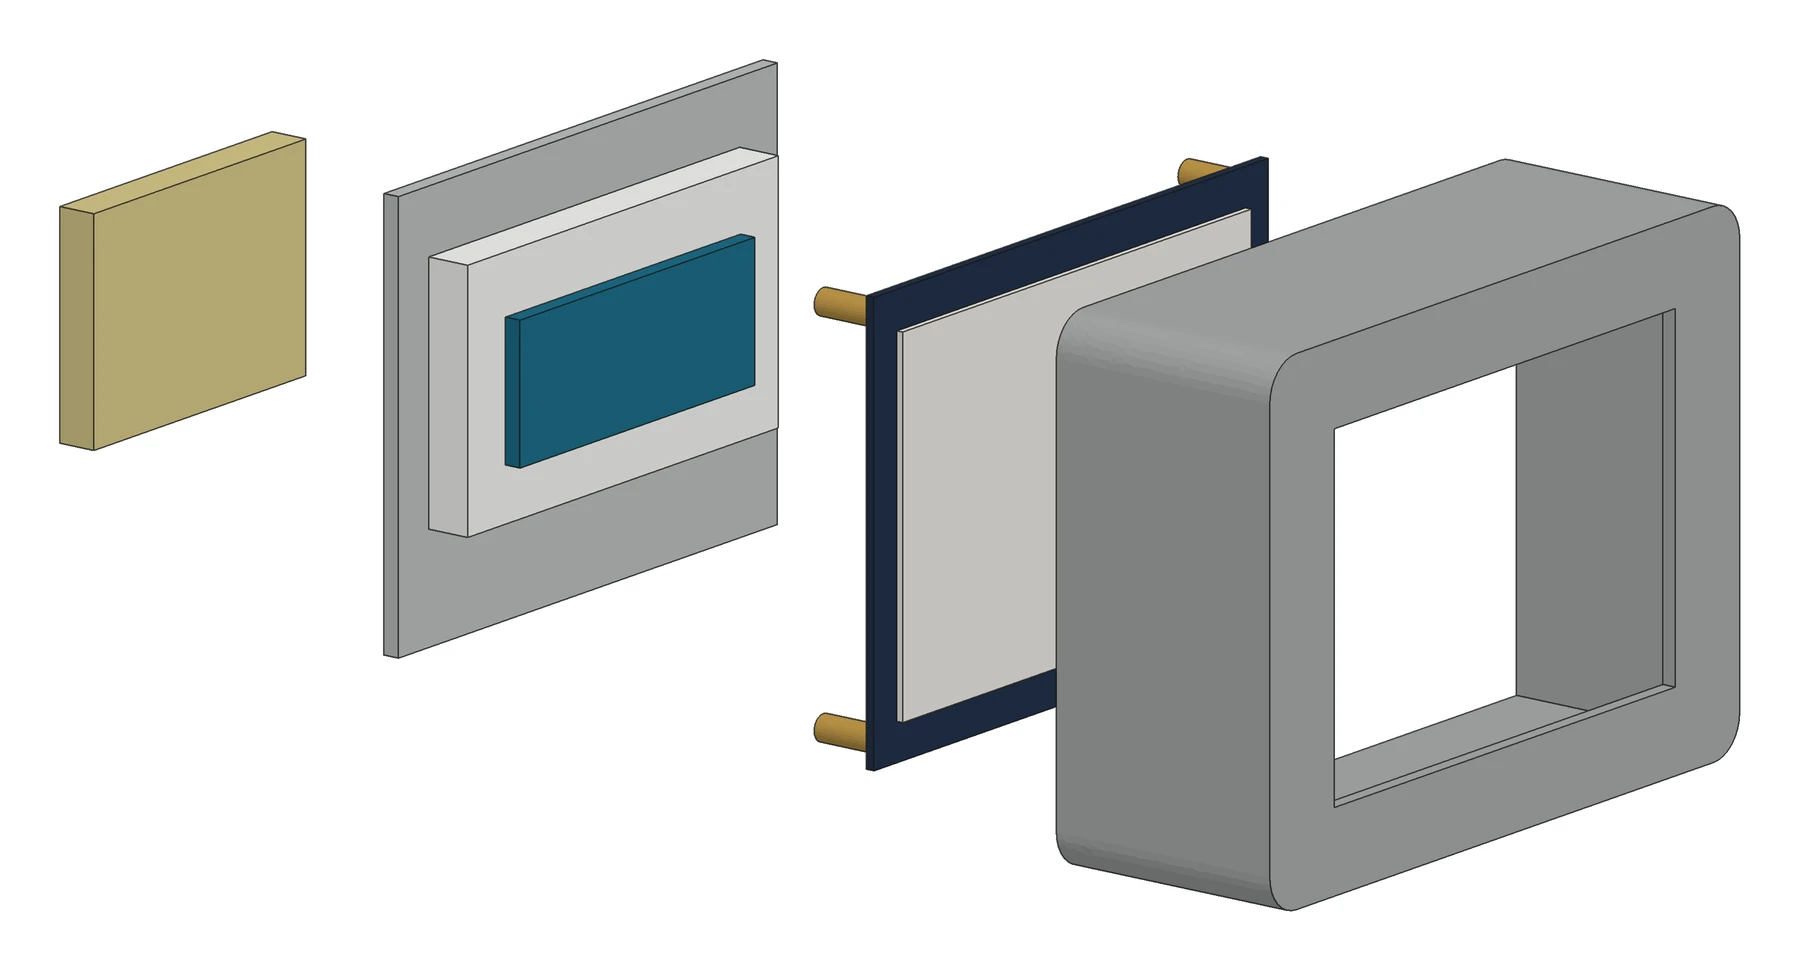
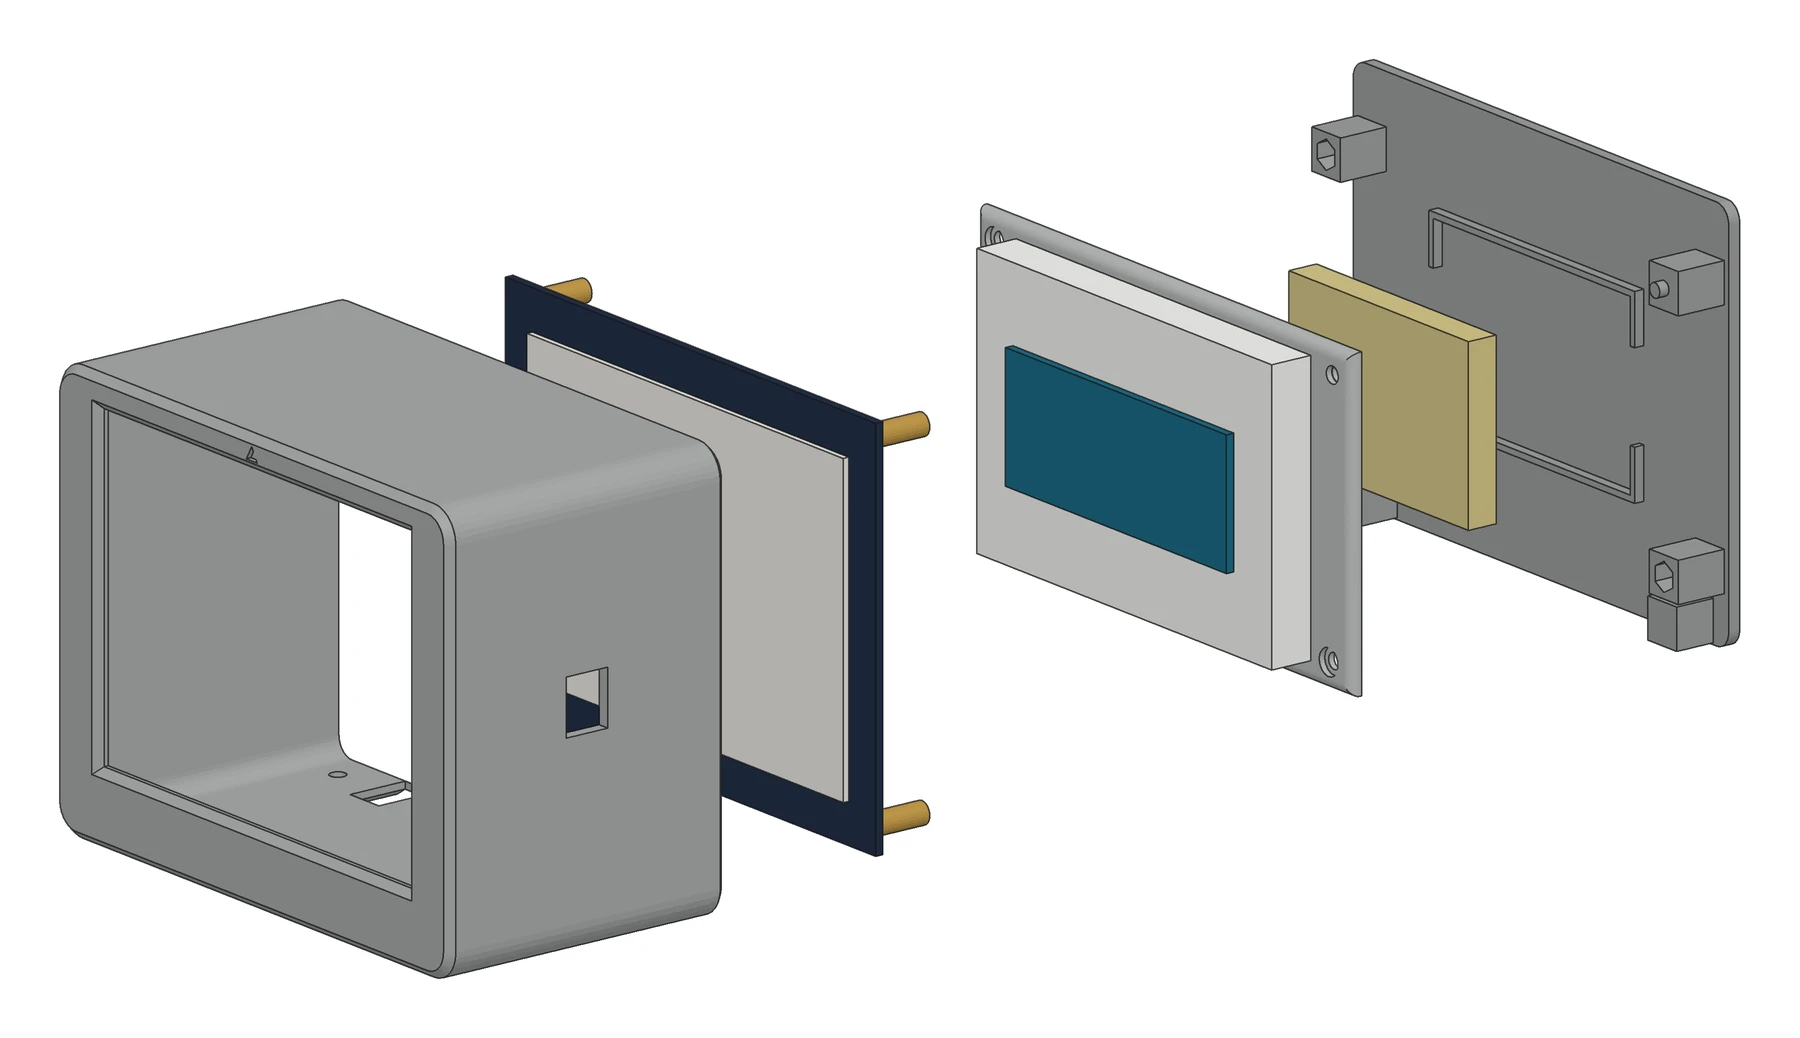
TPE draft: exploded views rendered from the full Fusion export
Claude-Session: https://claude.ai/code/session_01JdiqnAgj9LWHKqoaC1ZKdY

diff --git a/src/styles/global.css b/src/styles/global.css
@@ -390,6 +390,8 @@ article figure.vimeo-live { margin: 0 0 40px; }
 /* Exploded view */
 figure.explode { max-width: var(--wide); display: grid; grid-template-columns: minmax(0, 3fr) minmax(0, 2fr); gap: 8px 32px; align-items: center; border: 1px solid var(--rule); border-radius: 6px; padding: 24px 28px; }
 figure.explode .ex-img { position: relative; }
+figure.explode.stack { grid-template-columns: 1fr; }
+figure.explode.stack .explode-key { flex-direction: row; flex-wrap: wrap; gap: 10px 24px; }
 figure.explode .ex-img img { display: block; width: 100%; height: auto; max-width: none; margin: 0; border-radius: 4px; }
 .ex-nums { position: absolute; inset: 0; width: 100%; height: 100%; }
 .ex-nums circle { fill: var(--ink); }

diff --git a/src/content/work/toilet-paper-elevator.md b/src/content/work/toilet-paper-elevator.md
@@ -119,27 +119,28 @@ The hard part wasn't the electronics. It was getting a wire from the holder to t
 
 I designed the pod in Fusion, along with a raceway that carries the sensor wire down the wall and along the holder's arm to the end of the sleeve. Everything prints in gray. The LiPo sits trapped in a closed shell, and the display's own screws and brass standoffs hold it together.
 
-<figure class="explode">
-  <div class="ex-img"><img src="/work/tpe-assets/exploded-pod.webp" alt="Exploded view of the pod: the gray shell, the e-paper screen with brass standoffs, the Arduino on a breadboard and printed plate, and the LiPo battery"/><svg class="ex-nums" viewBox="0 0 1800 970" aria-hidden="true"><g><circle cx="1700" cy="175" r="26"/><text x="1700" y="185">1</text></g><g><circle cx="1290" cy="110" r="26"/><text x="1290" y="120">2</text></g><g><circle cx="860" cy="745" r="26"/><text x="860" y="755">3</text></g><g><circle cx="800" cy="40" r="26"/><text x="800" y="50">4</text></g><g><circle cx="330" cy="95" r="26"/><text x="330" y="105">5</text></g></svg></div>
+<figure class="explode stack">
+  <div class="ex-img"><img src="/work/tpe-assets/exploded-pod.webp" alt="Exploded view of the pod: the gray cover with its screen window, the e-paper screen on brass standoffs, the Arduino on a breadboard and carrier plate, the LiPo, and the back panel"/><svg class="ex-nums" viewBox="0 0 1800 1038" aria-hidden="true"><g><circle cx="100" cy="320" r="26"/><text x="100" y="330">1</text></g><g><circle cx="890" cy="250" r="26"/><text x="890" y="260">2</text></g><g><circle cx="940" cy="820" r="26"/><text x="940" y="830">3</text></g><g><circle cx="1110" cy="190" r="26"/><text x="1110" y="200">4</text></g><g><circle cx="1520" cy="300" r="26"/><text x="1520" y="310">5</text></g><g><circle cx="1760" cy="110" r="26"/><text x="1760" y="120">6</text></g></svg></div>
   <ol class="explode-key">
-    <li>Shell, with the screen window</li>
+    <li>Cover, with the screen window</li>
     <li>4.2" e-paper screen</li>
     <li>Brass standoffs</li>
-    <li>Arduino MKR WiFi 1010 on a printed plate</li>
+    <li>Arduino MKR WiFi 1010 on the carrier</li>
     <li>3.7V LiPo</li>
+    <li>Back panel, against the wall</li>
   </ol>
-  <figcaption>The pod, pulled apart.</figcaption>
+  <figcaption>The pod, pulled apart. Cover, carrier, and back panel from the Fusion files; the electronics are simplified.</figcaption>
 </figure>
 
 <figure class="explode">
-  <div class="ex-img"><img src="/work/tpe-assets/exploded-route.webp" alt="Exploded view of the sensor route: the end of the raceway, the finger that runs along the holder's arm, its side panel, and the A3144 Hall sensor"/><svg class="ex-nums" viewBox="0 0 1400 1365" aria-hidden="true"><g><circle cx="1290" cy="90" r="26"/><text x="1290" y="100">1</text></g><g><circle cx="1230" cy="800" r="26"/><text x="1230" y="810">2</text></g><g><circle cx="250" cy="760" r="26"/><text x="250" y="770">3</text></g><g><circle cx="1030" cy="1280" r="26"/><text x="1030" y="1290">4</text></g></svg></div>
+  <div class="ex-img"><img src="/work/tpe-assets/exploded-route.webp" alt="Exploded view of the sensor route: the end of the raceway, the finger that runs along the holder's arm, its side panel, and the A3144 Hall sensor"/><svg class="ex-nums" viewBox="0 0 1400 1365" aria-hidden="true"><g><circle cx="1060" cy="240" r="26"/><text x="1060" y="250">1</text></g><g><circle cx="1230" cy="800" r="26"/><text x="1230" y="810">2</text></g><g><circle cx="70" cy="870" r="26"/><text x="70" y="880">3</text></g><g><circle cx="930" cy="1180" r="26"/><text x="930" y="1190">4</text></g></svg></div>
   <ol class="explode-key">
     <li>Raceway, down the wall</li>
     <li>Finger, along the holder's arm</li>
     <li>Side panel, closes the wire channel</li>
     <li>A3144 Hall sensor, at the tip</li>
   </ol>
-  <figcaption>The sensor route, rendered from the Fusion files.</figcaption>
+  <figcaption>The sensor route, from the Fusion files.</figcaption>
 </figure>
 
 <figure class="grid3">
